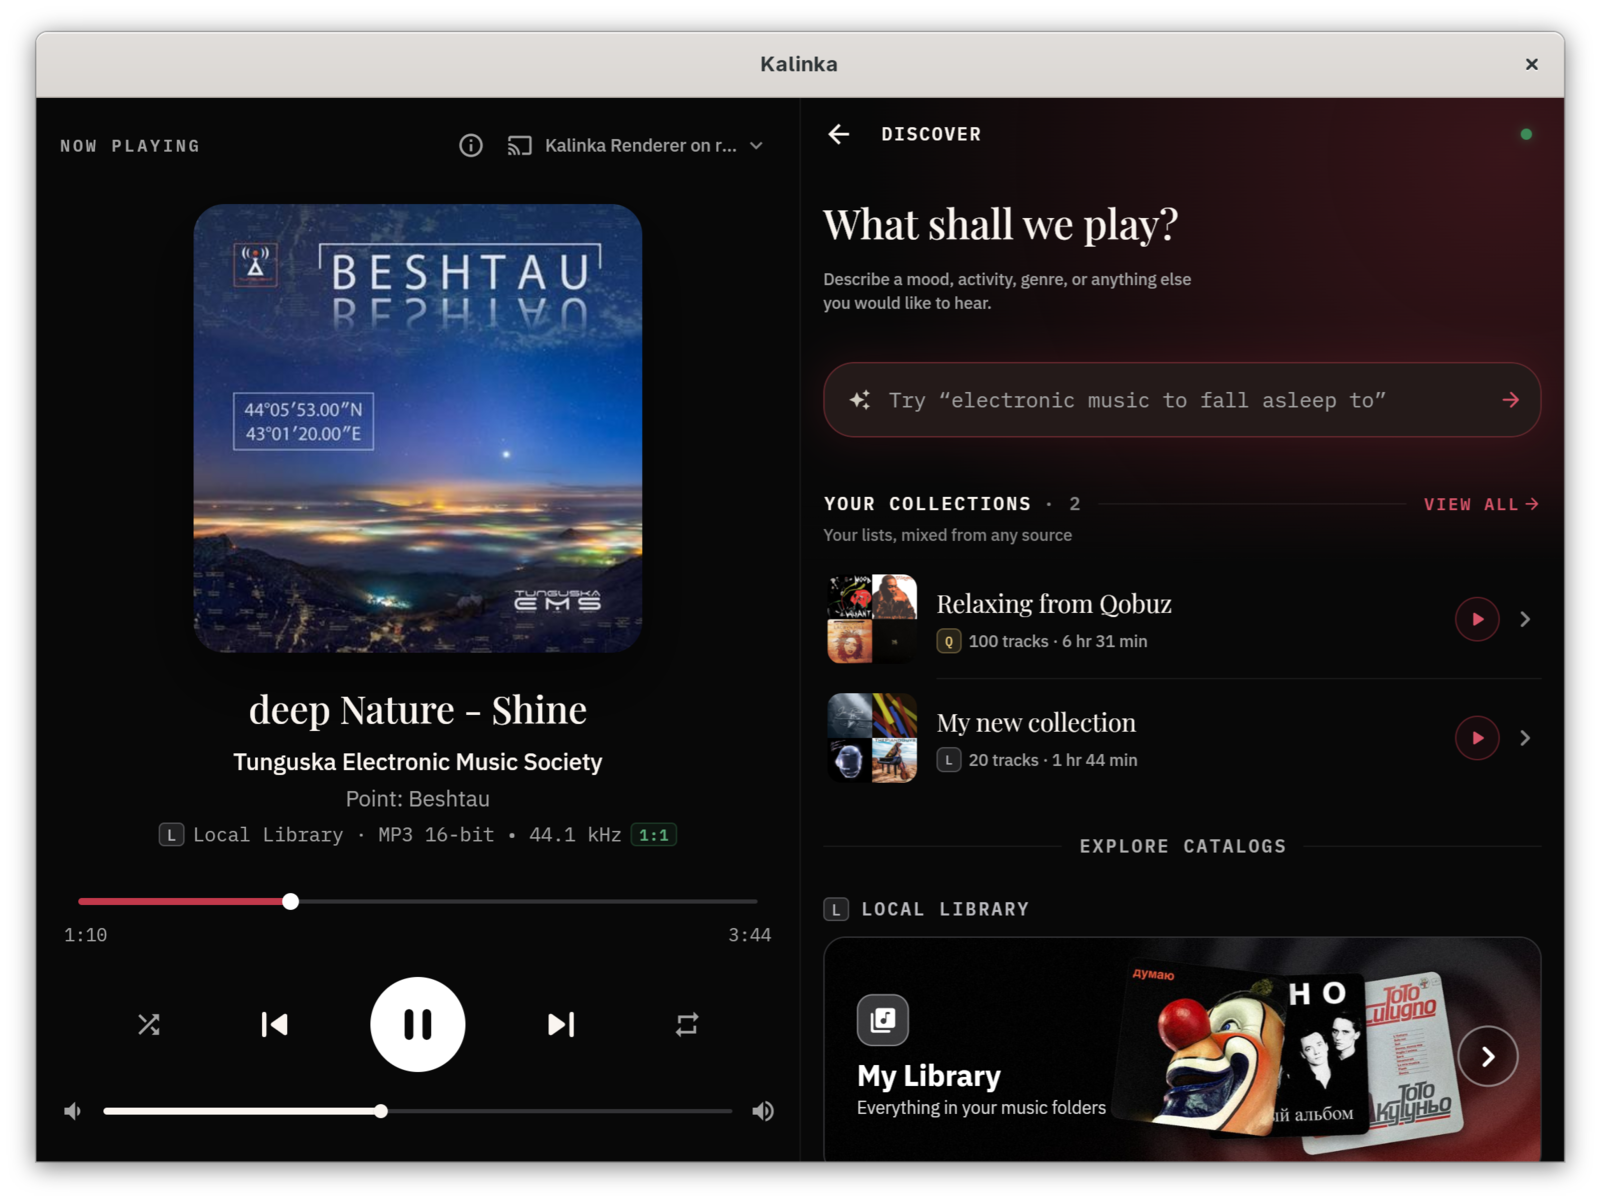
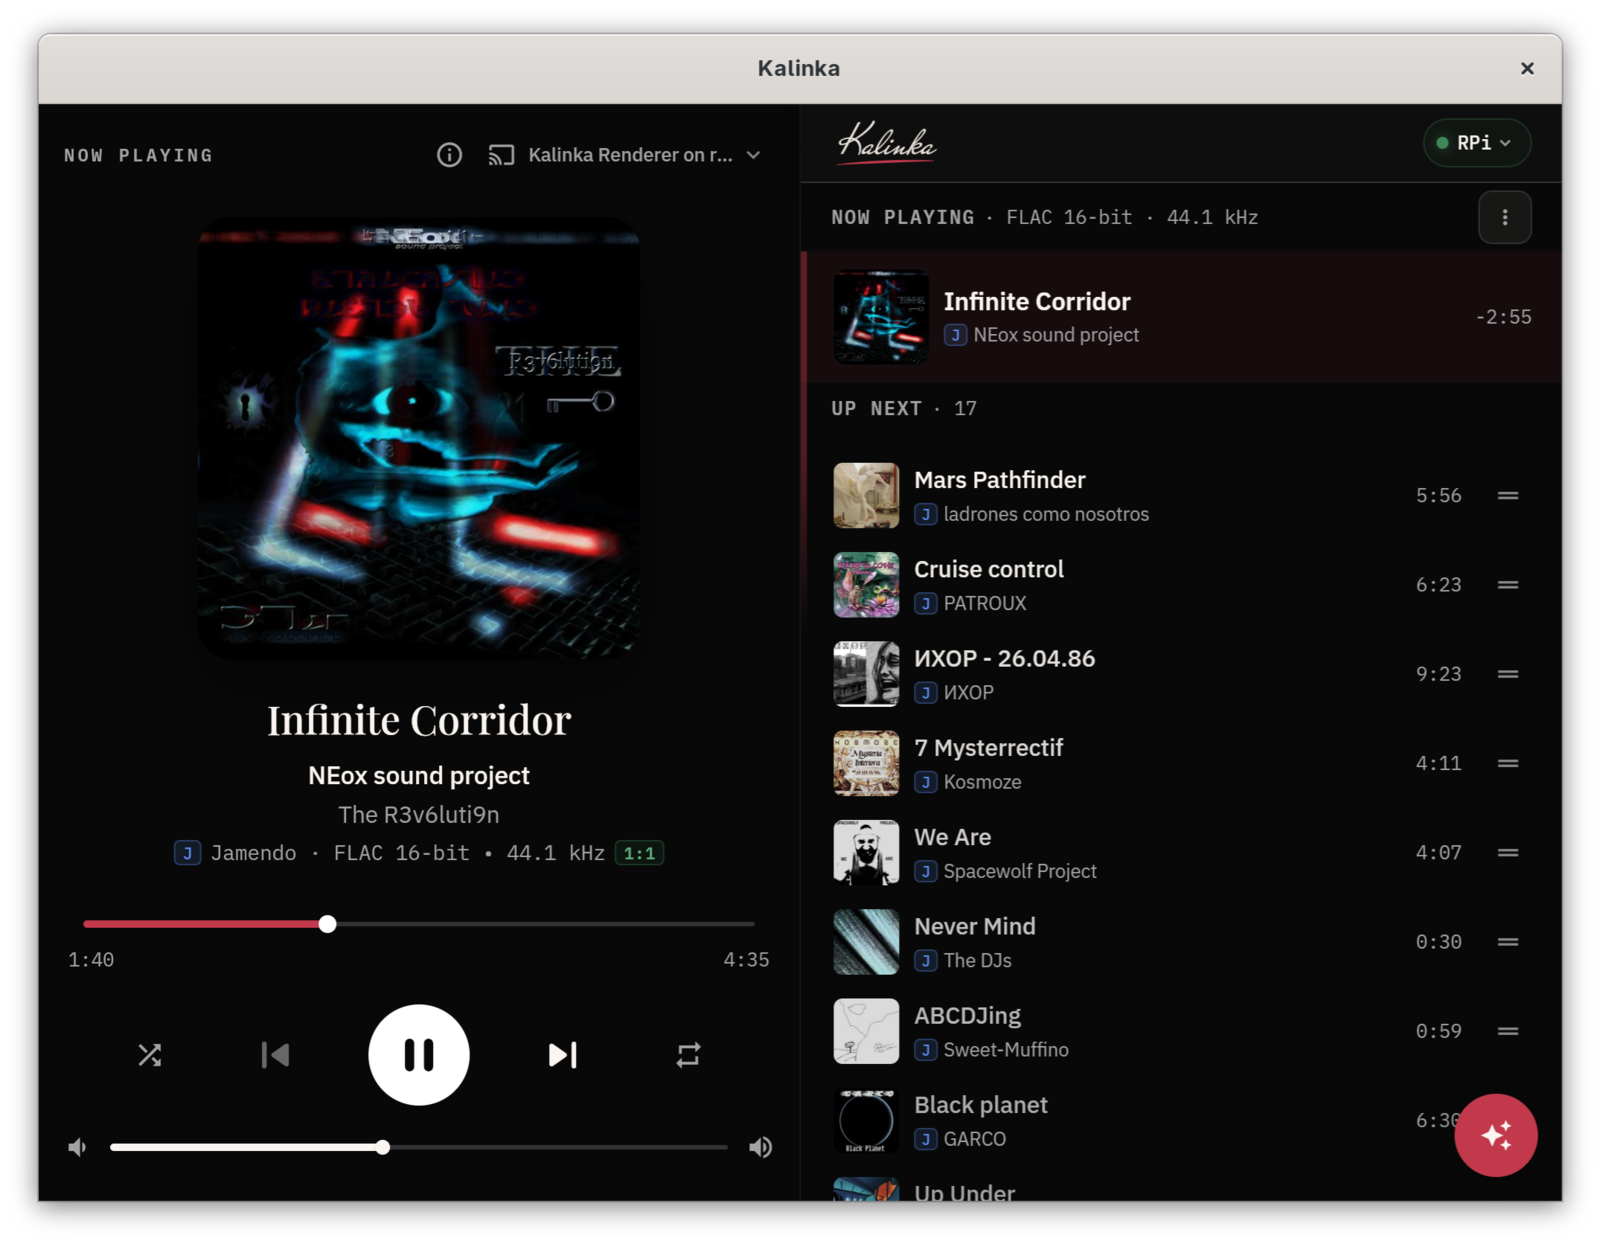
Say what actually leaves the machine, and ask people to test it
"Nothing phones home" was not true. The release check runs hourly whether
or not auto-upgrade is on, and MusicBrainz, Wikidata, Deezer and Cover Art
Archive are all on by default, so tag-derived queries go out on the first
scan. Name those two and say both are switchable; the claims that do hold
— files never uploaded, no account, no telemetry, search on the device —
are stronger for standing next to them.

AcoustID is keyed-only and inert until someone pastes a key, so it no
longer leads the enricher list as though it were running.

Add a section inviting people to report how a first install went, linked
from the header row, and swap the hero for a shot that shows a renderer
playing bit-perfect over the network.

Also carries the Smart Search memory figures measured on a 4 GB Pi 4B.

diff --git a/README.md b/README.md
@@ -15,9 +15,9 @@ Bit-perfect playback from your own library, on your own hardware — with on-dev
 [![License](https://img.shields.io/badge/license-GPL--3.0--or--later-2ea043)](LICENSE)
 [![Platform](https://img.shields.io/badge/platform-arm64%20%7C%20amd64-2ea043)](#-requirements)
 
-**[💿 Flash an image](https://github.com/Kalinka-Player/KalinkaPlayer/releases?q=kalinka-image-v&expanded=true) · [📦 Releases](https://github.com/Kalinka-Player/KalinkaPlayer/releases/latest) · [📱 Control app](https://github.com/Kalinka-Player/KalinkaAI) · [🌐 kalinkaplayer.com](https://kalinkaplayer.com)**
+**[💿 Flash an image](https://github.com/Kalinka-Player/KalinkaPlayer/releases?q=kalinka-image-v&expanded=true) · [📦 Releases](https://github.com/Kalinka-Player/KalinkaPlayer/releases/latest) · [📱 Control app](https://github.com/Kalinka-Player/KalinkaAI) · [🌐 kalinkaplayer.com](https://kalinkaplayer.com) · [💬 Help test it](https://github.com/Kalinka-Player/KalinkaPlayer/discussions/133)**
 
-<img src="docs/images/app-screenshot.png" alt="Kalinka playing a track through a network renderer, with semantic search and collections" width="820">
+<img src="docs/images/app-screenshot.png" alt="Kalinka playing a bit-perfect FLAC through a network renderer, with the play queue alongside" width="820">
 
 </div>
 
@@ -27,7 +27,7 @@ Bit-perfect playback from your own library, on your own hardware — with on-dev
 
 Kalinka turns a Raspberry Pi or any Linux box into a music player you control from your phone, desktop or a browser. The server holds your library; a separate **renderer** does the playing, talking to ALSA directly — so it can sit on the same machine, or on a Pi next to each amplifier in the house.
 
-Your files stay yours. Nothing is uploaded, nothing phones home, and the semantic search runs on the device.
+Your files stay yours — nothing is uploaded, there is no account and no telemetry, and the semantic search runs on the device. Two things do reach the internet, both switchable: the metadata lookups that repair your tags (MusicBrainz, Wikidata, Deezer, Cover Art Archive), and an hourly check for a published release.
 
 ## 🚀 Get started
 
@@ -49,7 +49,7 @@ Full walkthrough, troubleshooting and adding renderers on other machines: **[doc
 
 | | |
 |---|---|
-| 🎵 **Your library** | Indexes your directories, watches them for changes, and repairs the metadata — AcoustID fingerprinting plus MusicBrainz, Wikidata and Deezer, falling back to filename heuristics. Artwork is extracted, cached, and generated when there is none. |
+| 🎵 **Your library** | Indexes your directories, watches them for changes, and repairs the metadata — MusicBrainz, Wikidata and Deezer, plus AcoustID fingerprinting once you add a key of your own, falling back to filename heuristics. Artwork is extracted, cached, and generated when there is none. |
 | 🔍 **Smart Search** | Ask for *"dreamy ambient guitar"* and get matching tracks. The Local Library analyses the audio itself with a CLAP model; Jamendo matches a prebuilt index of track descriptions. Opt-in per plugin. |
 | 🔊 **Bit-perfect playback** | A C++ renderer with direct ALSA access. FLAC and MP3 up to 192 kHz / 24-bit, gapless between tracks of the same format, and the samples are not altered unless you turn on software volume. |
 | 🏠 **Renderers anywhere** | Put a renderer on any box on your network and it appears as an output. They find the server over mDNS and upgrade themselves. |
@@ -57,7 +57,7 @@ Full walkthrough, troubleshooting and adding renderers on other machines: **[doc
 | 🧩 **Plugins** | Sources, enrichers and device integrations are ordinary Python packages discovered at runtime. Local Library and Jamendo ship in the box; MusicCast handles Yamaha volume and power. |
 | 🪄 **Guided first run** | A setup wizard runs in the app and in the browser alike — name the server, point it at your music, pick an output, done. Nothing to edit on the server itself. |
 | ⚙ **Live configuration** | Everything stays editable afterwards from Settings, with a simple tier of common fields and an `about:config`-style search for the rest. |
-| 🔄 **Updates itself** | With auto-upgrade on, the server checks published releases hourly and installs during quiet hours while playback is stopped; otherwise the app offers a button. Server, plugins, browser player and renderers move together — renderers first, so the pair never lands on a combination that cannot play. |
+| 🔄 **Updates itself** | The server checks published releases hourly; with auto-upgrade on it installs during quiet hours while playback is stopped, otherwise the app offers a button. Server, plugins, browser player and renderers move together — renderers first, so the pair never lands on a combination that cannot play. |
 
 ## 💻 Requirements
 
@@ -66,7 +66,7 @@ A **64-bit OS is required** — packages are built for arm64 and amd64 only. On 
 | Configuration | Minimum hardware | Notes |
 |---|---|---|
 | Playback + library | Raspberry Pi 3 / Zero 2 W, or any arm64/amd64 box with **512 MB RAM** | Headless OS recommended at 512 MB; enable swap for the first install and large scans. 1 GB is comfortable. |
-| With Smart Search | Raspberry Pi 4B with **4 GB RAM**, or any amd64 machine with 4 GB+ | The embedding model (~285 MB) stays resident; the first pass is CPU-heavy and runs in the background. Allow ~1 GB extra disk. |
+| With Smart Search | Raspberry Pi 4B with **2 GB RAM**, or any arm64/amd64 box with 2 GB+ | Measured on a 4 GB Pi 4B: ~1.15 GB resident with the library indexed and idle, and ~1.5 GB at the peak — the embedding pass, which loads a second model on top and is CPU-heavy. 2 GB should therefore work; 4 GB is what has actually been tested end to end. Allow ~1 GB extra disk. |
 
 Smart Search can be toggled per install, so you can start small and enable it after moving the library to a bigger board.
 
@@ -87,6 +87,10 @@ In-browser playback goes through the browser's audio stack, so there is no gaple
 | [Development](docs/development.md) | Building the Debian packages, running from source, tests |
 | [Renderer design](docs/native-renderer-design.md) | The contract a renderer implements |
 | [Releasing](RELEASING.md) | Version model and release procedure |
+
+## 🙋 Help test it
+
+Kalinka is young, and the interesting problems are the ones that only happen on someone else's hardware, with someone else's music. If you try it, say how it went in [the testing thread](https://github.com/Kalinka-Player/KalinkaPlayer/discussions/133) — what you ran it on, where your music lives, what you played it through, and where you got stuck. Setup questions belong there too; something you can reproduce is easier to act on as an [issue](https://github.com/Kalinka-Player/KalinkaPlayer/issues).
 
 ## Contributing
 
